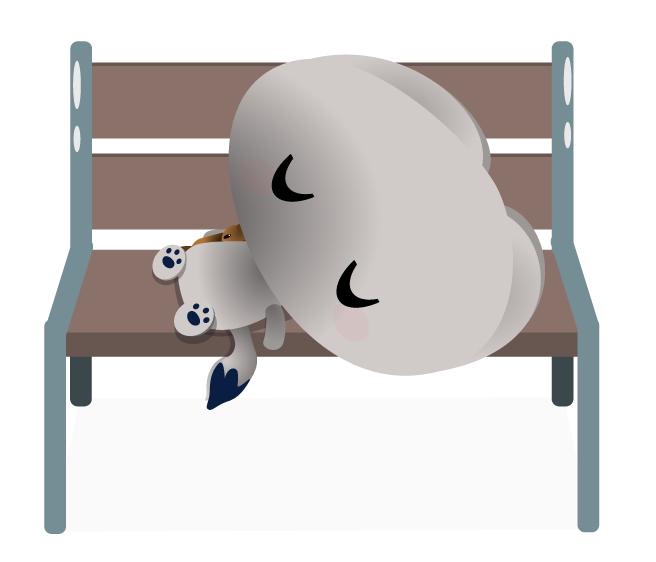
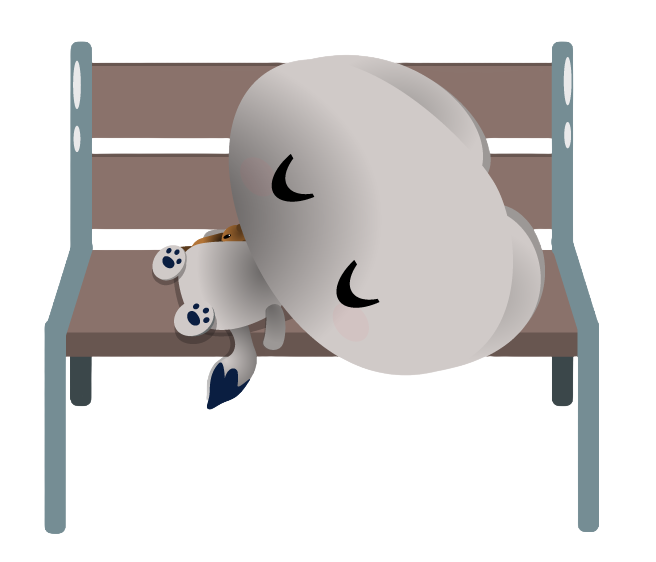
feat(bichittos): optional panel borderColor + creature colour retune
- palettes.bichittos gains optional borderColor so the DSTextPanel outline
  can be set independently from titleColor (falls back to titleColor when
  omitted)
- DSMainCard forwards a new panelBorderColor prop to DSTextPanel.borderColor
- BichittosClient passes colors.borderColor through
- Retouch napcat/zeco palettes (darks, panel backgrounds, accent slots,
  stripColor on zeco) — plus a refreshed napcat-dormindo portrait asset

Changed region(s): [[0.8537, 0.6957, 0.8841, 0.726]]

diff --git a/src/theme/palettes.ts b/src/theme/palettes.ts
@@ -23,8 +23,12 @@ export interface Palette {
     name: string;
     /** Cor do texto curto do CreatureCard (fora do banner). */
     text: string;
-    /** Cor do título <h2> dentro do DSTextPanel + cor da borda do painel. */
+    /** Cor do título <h2> dentro do DSTextPanel. Se `borderColor` não for
+     *  definido, esta cor também é usada como borda do painel. */
     titleColor: string;
+    /** Cor da borda (outline) do DSTextPanel. Se não definido, cai em
+     *  `titleColor`. Permite descolar título e moldura quando precisar. */
+    borderColor?: string;
     /** Cor dos <p> dentro do DSTextPanel. */
     textColor: string;
     /** Cor dos cantos HUD, fundo/borda da pill e dropcap. */
@@ -64,16 +68,16 @@ export const palettes: Record<PaletteName, Palette> = {
     gradient: 'linear-gradient(135deg, #0f1a4a, #0f1a33, #c4d4ff)',
     gradientBg: 'linear-gradient(160deg, #0f1a4a 10%, #1e3a7a 40%, #0f1a4a 100%)',
     bichittos: {
-      name: '#3b0033', // hero "NapCat" grande fora do card
+      name: '#1e3a7a', // hero "NapCat" grande fora do card
       text: '#c4d4ff',       // texto do CreatureCard externo
       // titleColor: '#29bade', // h2 "NapCat & Violeta" dentro do painel + borda
       titleColor: '#c4d4ff', // h2 "NapCat & Violeta" dentro do painel + borda
       textColor: '#c4d4ff',  // parágrafos dentro do painel
-      accent: '#892b7d',  
+      accent: '#c4d4ff',  
       accentAlt: '#c4d4ff',  // texto da pill
       bgImage: '/imgs/bichittos/bg/napcat.png',
       tag: 'Gato · Sonhador',
-      panelBg: '#2e0429',
+      panelBg: 'rgb(30, 58, 122, 0.8)',
       // panelBg: '#3b0033',
     },
   },
@@ -84,17 +88,19 @@ export const palettes: Record<PaletteName, Palette> = {
     gradient: 'linear-gradient(155deg, #4a2512 0%, #7a3d1a 45%, #c56b2e 100%)',
     gradientBg: 'linear-gradient(160deg, #fece95 0%, #f57f20 40%, #fece95 100%)',
     bichittos: {
-      name: 'rgb(245, 128, 32)',
+      name: '#f58020',
       text: '#592e06',
-      titleColor: '#483727',
-      textColor: '#69250c',
-      accent: '#483727',
-      accentAlt: '#f9be82',
+      titleColor: '#f58020',
+      textColor: '#fece95',
+      accent: '#f58020',
+      accentAlt: '#fece95',
       bgImage: '/imgs/bichittos/bg/zeco.png',
       tag: 'Hamster · Quintal',
-      // panelBg: 'rgb(249, 190, 130, 0.3)',
-      panelBg: 'rgb(245, 128, 32, 0.6)',
-      stripColor: '#483727'
+      panelBg: '#592e06',
+      // panelBg: 'rgb(245, 128, 32, 0.6)',
+      // panelBg: 'rgba(255,255,255,0.12)',
+      stripColor: '#fece95',
+      borderColor: '#fece95',
     },
   },
   taylo: {

diff --git a/src/components/DSMainCard/DSMainCard.tsx b/src/components/DSMainCard/DSMainCard.tsx
@@ -82,6 +82,8 @@ interface DSMainCardProps {
   panelBadge?: string;
   /** Creature-tinted panel background forwarded to DSTextPanel. */
   panelBg?: string;
+  /** Override the DSTextPanel outline color (falls back to titleColor). */
+  panelBorderColor?: string;
   children?: ReactNode;
   'data-testid'?: string;
 }
@@ -104,6 +106,7 @@ export function DSMainCard({
   creatureAccentAlt,
   panelBadge,
   panelBg,
+  panelBorderColor,
   children,
   'data-testid': testId,
 }: DSMainCardProps) {
@@ -358,6 +361,7 @@ export function DSMainCard({
               creatureAccentAlt={creatureAccentAlt}
               badge={panelBadge}
               panelBg={panelBg}
+              borderColor={panelBorderColor}
             >
               {text}
             </DSTextPanel>

diff --git a/src/app/[locale]/bichittos/BichittosClient.tsx b/src/app/[locale]/bichittos/BichittosClient.tsx
@@ -204,6 +204,7 @@ export function BichittosClient({ data }: Props) {
                   creatureAccentAlt={colors.accentAlt}
                   panelBadge={colors.tag}
                   panelBg={colors.panelBg}
+                  panelBorderColor={colors.borderColor}
                   text={
                     <>
                       {panelStory.map((p, i) => (
